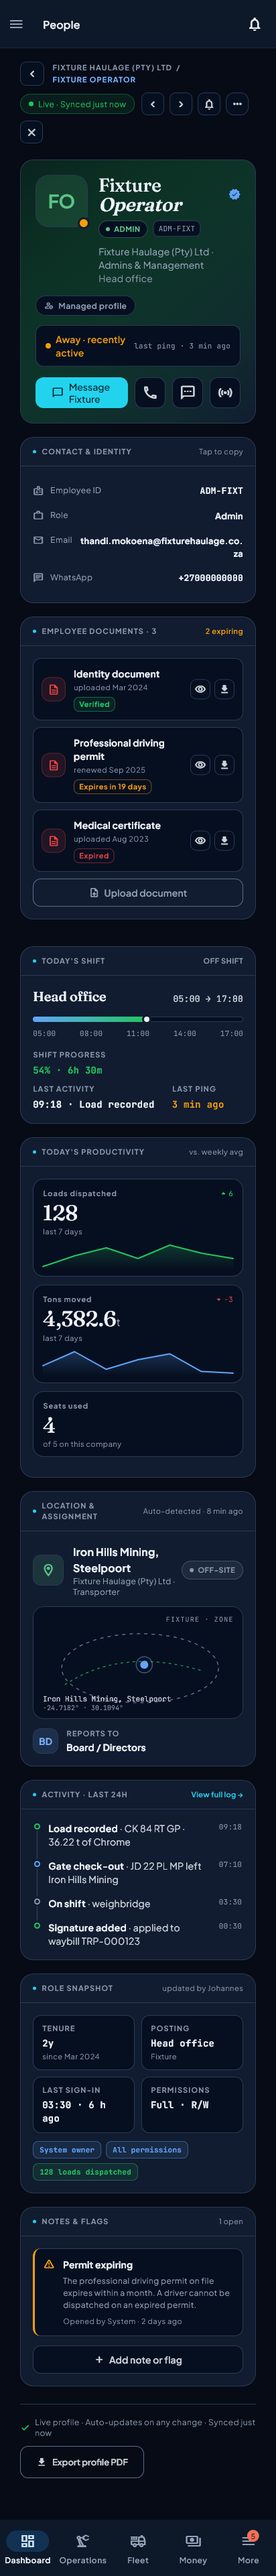
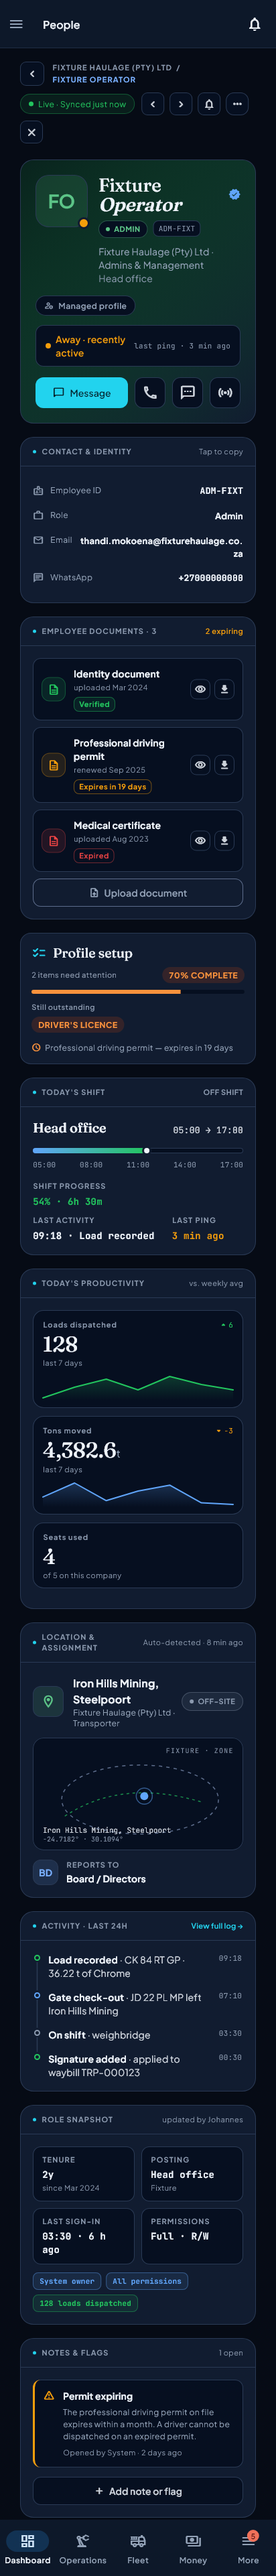
fix(employee): a fall is amber, a document's well carries its status, the footer button reaches the edge, the CTA never half-names, and the setup card is photographed
Phase 3 mine-portal pass, 2026-08-23 — two reviewers, five findings on
the employee profile:

- "▼ −3" under "Tons moved" drew red; the reference makes a negative delta
  amber and keeps red for a fault (design-reference §4) → `_amber`.
- Every document tile sat in a RED well, "Identity document · Verified"
  included: `statusColor` was computed and then ignored → the well takes
  the document's own tone (green / amber / red).
- The footer was a `Wrap` with no alignment and no claimed width, so
  "Export profile PDF" landed mid-row at x≈740–927 in a column ending at
  1570 (class 2) → a Row with the sentence `Expanded`; under 560px the
  button drops to its own line, right-aligned.
- The primary CTA read "Message  Thandi" (two spaces) and wrapped to two
  lines inside its 46px button at 1600px. An ellipsis was tried and read
  "Message F…" — a half-name is worse than none — so the name is dropped
  when the button is under 200px and the label is always one whole line.
- `ProfileSetupEmployerCard` had no provider fixture, errored, and returned
  `SizedBox.shrink()` on every profile golden ever taken — a failure that
  photographed as nothing (class 6). The fixture now supplies a setup, and
  WITH its items: the card itemises `setup.items`, and a summary over an
  empty list read "Nothing outstanding" at 70% with a licence missing — the
  first draft of this fixture lied the same way.

Pinned by employee_profile_tones_test.dart (six cases); sabotaged by
[…]

diff --git a/lib/features/employee/screens/employee_profile_screen.dart b/lib/features/employee/screens/employee_profile_screen.dart
@@ -555,40 +555,33 @@ class _EmployeeProfileScreenState extends ConsumerState<EmployeeProfileScreen> {
       decoration: BoxDecoration(
         border: Border(top: BorderSide(color: s.borderCard)),
       ),
-      // A Wrap, and the sentence claims the row.
+      // Sentence LEFT, button RIGHT, at every width.
       //
-      // It was a Row with a `Flexible` sentence and a `Spacer` — an
-      // `Expanded(flex: 1)` each, splitting the free space EQUALLY, so on a
-      // desktop half the row sat empty while the sentence ellipsised. On a
-      // phone even the full half is not enough beside a 190px "Export profile
-      // PDF" button, so the button drops to its own line.
-      child: Wrap(
-        spacing: 12,
-        runSpacing: 12,
-        crossAxisAlignment: WrapCrossAlignment.center,
-        children: [
-          SizedBox(
-            width: MediaQuery.sizeOf(context).width < 560
-                ? double.infinity
-                : 420,
-            child: Row(
-              children: [
-                const Icon(Icons.check_rounded, size: 15, color: _green),
-                const SizedBox(width: 7),
-                Expanded(
-                  child: Text(
-                    'Live profile · Auto-updates on any change · Synced ${_ago(syncedAt)}',
-                    maxLines: 2,
-                    overflow: TextOverflow.ellipsis,
-                    style: context.mlText.bodySmall.copyWith(
-                      color: s.textFaint,
-                    ),
+      // Until 2026-08-23 this was a `Wrap` with no alignment and no claimed
+      // width: on a desktop the 420px sentence and the 190px button sat
+      // side by side at the START of the row, the button stranded mid-row
+      // (x≈740–927 in a column ending at 1570) — the console pass's class 2.
+      // A Row with the sentence `Expanded` puts the button at the edge;
+      // under 560px the button drops to its own line, right-aligned.
+      child: LayoutBuilder(
+        builder: (context, c) {
+          final sentence = Row(
+            children: [
+              const Icon(Icons.check_rounded, size: 15, color: _green),
+              const SizedBox(width: 7),
+              Expanded(
+                child: Text(
+                  'Live profile · Auto-updates on any change · Synced ${_ago(syncedAt)}',
+                  maxLines: 2,
+                  overflow: TextOverflow.ellipsis,
+                  style: context.mlText.bodySmall.copyWith(
+                    color: s.textFaint,
                   ),
                 ),
-              ],
-            ),
-          ),
-          OutlinedButton.icon(
+              ),
+            ],
+          );
+          final button =           OutlinedButton.icon(
             onPressed: () => _exportPdf(b),
             icon: const Icon(Icons.download_rounded, size: 16),
             label: const Text('Export profile PDF'),
@@ -602,8 +595,25 @@ class _EmployeeProfileScreenState extends ConsumerState<EmployeeProfileScreen> {
               ),
               shape: RoundedRectangleBorder(borderRadius: MlShape.radiusMedium),
             ),
-          ),
-        ],
+          );
+          if (c.maxWidth < 560) {
+            return Column(
+              crossAxisAlignment: CrossAxisAlignment.stretch,
+              children: [
+                sentence,
+                const SizedBox(height: 12),
+                Align(alignment: Alignment.centerRight, child: button),
+              ],
+            );
+          }
+          return Row(
+            children: [
+              Expanded(child: sentence),
+              const SizedBox(width: 12),
+              button,
+            ],
+          );
+        },
       ),
     );
   }
@@ -918,13 +928,24 @@ class _EmployeeProfileScreenState extends ConsumerState<EmployeeProfileScreen> {
                   Expanded(
                     child: SizedBox(
                       height: 46,
-                      child: FilledButton.icon(
+                      child: LayoutBuilder(
+                        builder: (context, c) => FilledButton.icon(
                         onPressed: () => _message(b),
                         icon: const Icon(
                           Icons.chat_bubble_outline_rounded,
                           size: 18,
                         ),
-                        label: Text('Message  ${e.firstName}'),
+                        // One space (it had two), one line, and the NAME is
+                        // dropped when the button is narrow: beside three
+                        // 46px icon buttons at 1600px the label wrapped to
+                        // two lines inside its 46px button, and an ellipsis
+                        // read "Message F…" — a half-name is worse than no
+                        // name. Phase 3 mine pass, 2026-08-23.
+                        label: Text(
+                          c.maxWidth < 200 ? 'Message' : 'Message ${e.firstName}',
+                          maxLines: 1,
+                          overflow: TextOverflow.ellipsis,
+                        ),
                         style: FilledButton.styleFrom(
                           backgroundColor: _cta,
                           foregroundColor: MlTokens.inkOnAccent,
@@ -937,6 +958,7 @@ class _EmployeeProfileScreenState extends ConsumerState<EmployeeProfileScreen> {
                             borderRadius: MlShape.radiusMedium,
                           ),
                         ),
+                      ),
                       ),
                     ),
                   ),
@@ -2180,18 +2202,22 @@ class _DocTile extends StatelessWidget {
       ),
       child: Row(
         children: [
+          // The well carries the document's own status tone — `statusColor`
+          // was computed and then ignored, so a "Verified" identity document
+          // sat in a RED well beside its green badge. Phase 3 mine pass,
+          // 2026-08-23.
           Container(
             width: 36,
             height: 36,
             decoration: BoxDecoration(
-              color: _red.withValues(alpha: 0.12),
-              border: Border.all(color: _red.withValues(alpha: 0.3)),
+              color: statusColor.withValues(alpha: 0.12),
+              border: Border.all(color: statusColor.withValues(alpha: 0.3)),
               borderRadius: MlShape.radiusMedium,
             ),
-            child: const Icon(
+            child: Icon(
               Icons.description_outlined,
               size: 18,
-              color: _red,
+              color: statusColor,
             ),
           ),
           const SizedBox(width: 12),
@@ -2275,7 +2301,10 @@ class _MetricTile extends StatelessWidget {
     final s = semantic;
     final m = metric;
     final color = _toneColor(m.tone, s);
-    final deltaColor = m.deltaUp ? _green : _red;
+    // A fall is AMBER, not red: the reference makes negative deltas amber and
+    // keeps red for a fault (design-reference §4). "▼ −3 tons moved" is a
+    // downward trend, not an error. Phase 3 mine pass, 2026-08-23.
+    final deltaColor = m.deltaUp ? _green : _amber;
     return Container(
       padding: const EdgeInsets.fromLTRB(14, 13, 14, 10),
       decoration: BoxDecoration(

diff --git a/test/features/employee/employee_profile_tones_test.dart b/test/features/employee/employee_profile_tones_test.dart
@@ -1,0 +1,143 @@
+// The employee profile: a downward delta is amber, a document's well carries
+// its own status, the footer's button reaches the right edge, the CTA is one
+// line, and the employer's setup card is photographed at all.
+//
+// Phase 3 mine-portal pass, 2026-08-23 (two reviewers). "▼ −3" under "Tons
+// moved" drew red — the reference makes a negative delta amber and keeps red
+// for a fault. Every document tile sat in a RED well, "Identity document ·
+// Verified" included: `statusColor` was computed and then ignored. The footer
+// was a `Wrap` with no alignment, so "Export profile PDF" landed mid-row at
+// x≈740–927 in a column ending at 1570. The primary CTA read
+// "Message  Thandi" with two spaces and wrapped at 1600px. And
+// `ProfileSetupEmployerCard` returned `SizedBox.shrink()` because its
+// provider had no fixture — a failure that photographed as nothing.
+
+import 'package:flutter/material.dart';
+import 'package:flutter/rendering.dart';
+import 'package:flutter_riverpod/flutter_riverpod.dart';
+import 'package:flutter_test/flutter_test.dart';
+import 'package:shared_preferences/shared_preferences.dart';
+import 'package:supabase_flutter/supabase_flutter.dart';
+
+import 'package:flutter_application_1/core/design/tokens/ml_tokens.dart';
+import 'package:flutter_application_1/core/theme/app_theme.dart';
+import 'package:flutter_application_1/features/auth/models/user_type.dart';
+import 'package:flutter_application_1/features/employee/screens/employee_profile_screen.dart';
+import 'package:flutter_application_1/features/profile_setup/widgets/profile_setup_employer_card.dart';
+
+import '../../fixtures/employee_profile_fixtures.dart';
+import '../../fixtures/screen_fixtures.dart';
+import '../../test_helpers/real_fonts.dart';
+import '../../test_helpers/frozen_clock.dart';
+
+void main() {
+  setUpAll(() async {
+    freezeCaptureClock();
+    await loadRealFonts();
+    SharedPreferences.setMockInitialValues({});
+    await Supabase.initialize(
+      url: 'http://localhost:54321',
+      anonKey: 'employee-profile-tones-test',
+    );
+  });
+
+  Future<void> pump(WidgetTester tester, {double width = 1600}) async {
+    tester.view.physicalSize = Size(width, 2600);
+    tester.view.devicePixelRatio = 1.0;
+    addTearDown(tester.view.reset);
+    await tester.pumpWidget(ProviderScope(
+      overrides: [
+        ...companyScopeOverrides(
+            role: UserRole.admin, orgType: OrgType.transporter),
+        ...employeeProfileOverrides(),
+      ],
+      child: MaterialApp(
+        theme: AppTheme.darkTheme,
+        home: const Scaffold(
+          body: EmployeeProfileScreen(
+            employeeId: 'FIXTURE-employee',
+            canManage: true,
+            inPortal: true,
+          ),
+        ),
+      ),
+    ));
+    await tester.pump();
+    await tester.pump(const Duration(milliseconds: 800));
+  }
+
+  Color? inkOf(Finder f) =>
+      (f.evaluate().single.renderObject! as RenderParagraph).text.style?.color;
+
+  testWidgets('a downward delta is amber, not red', (tester) async {
+    await pump(tester);
+    final down = find.text('-3');
+    expect(down, findsOneWidget, reason: 'the fixture carries a -3 delta');
+    expect(inkOf(down), MlTokens.amber500);
+    expect(inkOf(down), isNot(MlTokens.red500));
+  });
+
+  testWidgets('a verified document does not sit in a red well',
+      (tester) async {
+    await pump(tester);
+    final verified = find.text('Verified');
+    expect(verified, findsWidgets);
+    final tile = find.ancestor(
+      of: verified.first,
+      matching: find.byWidgetPredicate(
+          (w) => w is Container && w.padding == const EdgeInsets.all(12)),
+    );
+    final well = find
+        .descendant(of: tile.first, matching: find.byType(Icon))
+        .evaluate()
+        .map((e) => e.widget as Icon)
+        .firstWhere((i) => i.icon == Icons.description_outlined);
+    expect(well.color, isNot(MlTokens.red500),
+        reason: 'a verified document icon is drawn in the fault colour');
+    // And it carries the document's own tone — green for Verified.
+    expect(well.color, MlTokens.green500);
+  });
+
+  testWidgets('the footer button reaches the right edge of its column',
+      (tester) async {
+    await pump(tester);
+    final button = tester.getRect(find.text('Export profile PDF'));
+    final sentence = tester.getRect(find.textContaining('Live profile'));
+    final column = tester.getRect(find.ancestor(
+      of: find.text('Export profile PDF'),
+      matching: find.byType(LayoutBuilder),
+    ).first);
+    expect(button.right, greaterThan(column.right - 40),
+        reason: 'button ends at ${button.right} in a column ending at '
+            '${column.right}');
+    expect(sentence.left, lessThan(button.left));
+  });
+
+  testWidgets('the CTA is one line, whole, with one space', (tester) async {
+    await pump(tester);
+    final cta = find.textContaining(RegExp(r'^Message'));
+    expect(cta, findsOneWidget);
+    final p = cta.evaluate().single.renderObject! as RenderParagraph;
+    expect(p.size.height, closeTo(p.getMaxIntrinsicHeight(double.infinity), 0.5),
+        reason: 'the CTA label wrapped');
+    // Never a half-name: either the whole name or none.
+    expect(p.didExceedMaxLines, isFalse, reason: 'the CTA ellipsised');
+    expect(find.textContaining('Message  '), findsNothing);
+  });
+
+  testWidgets('the setup card itemises what the summary counts',
+      (tester) async {
+    await pump(tester);
+    expect(find.text('Nothing outstanding'), findsNothing,
+        reason: '"Nothing outstanding" over a 70% summary with a missing item');
+    expect(find.textContaining(RegExp(r'need(s)? attention')), findsOneWidget);
+  });
+
+  testWidgets('the employer setup card is rendered', (tester) async {
+    await pump(tester);
+    final card = find.byType(ProfileSetupEmployerCard);
+    expect(card, findsOneWidget);
+    expect(tester.getSize(card).height, greaterThan(40),
+        reason: 'the setup card collapsed to nothing — its provider errored');
+  });
+}

diff --git a/test/fixtures/employee_profile_fixtures.dart b/test/fixtures/employee_profile_fixtures.dart
@@ -16,6 +16,8 @@ import 'package:flutter_riverpod/flutter_riverpod.dart';
 import 'package:flutter_application_1/features/auth/models/user_type.dart';
 import 'package:flutter_application_1/features/employee/providers/employee_profile_provider.dart';
 import 'package:flutter_application_1/features/employee/services/employee_profile_service.dart';
+import 'package:flutter_application_1/features/profile_setup/models/profile_setup.dart';
+import 'package:flutter_application_1/features/profile_setup/providers/profile_setup_provider.dart';
 
 import 'screen_fixtures.dart';
 
@@ -185,4 +187,56 @@ List<Override> employeeProfileOverrides() => [
       employeeProfileRealtimeProvider.overrideWith((ref, employeeId) {}),
       employeeProfileSyncedAtProvider
           .overrideWith((ref, employeeId) => _ago(const Duration(seconds: 4))),
+      // The employer's setup card. Without this the provider errored and
+      // `ProfileSetupEmployerCard` returned `SizedBox.shrink()` — a failure
+      // that photographed as nothing, on every profile golden ever taken
+      // (Phase 3 mine pass, 2026-08-23). One item missing and one expiring,
+      // so the card has something to say.
+      // The ITEMS too, consistent with the summary: the card itemises
+      // `setup.items` ("Nothing outstanding" is what it says over an empty
+      // list), and a fixture with a summary and no items is a fixture that
+      // lies.
+      employeeProfileSetupProvider('FIXTURE-employee').overrideWith(
+        (ref) async => const ProfileSetup(
+          audience: 'employee',
+          items: [
+            ProfileSetupItem(
+              itemKey: 'drivers_licence',
+              label: "Driver's licence",
+              category: SetupCategory.licences,
+              kind: SetupItemKind.document,
+              isRequired: true,
+              requiresExpiry: true,
+              requiresFile: true,
+              sortOrder: 1,
+              status: SetupItemStatus.missing,
+              filePresent: false,
+            ),
+            ProfileSetupItem(
+              itemKey: 'prdp',
+              label: 'Professional driving permit',
+              category: SetupCategory.licences,
+              kind: SetupItemKind.document,
+              isRequired: true,
+              requiresExpiry: true,
+              requiresFile: true,
+              sortOrder: 2,
+              status: SetupItemStatus.expiring,
+              filePresent: true,
+              daysToExpiry: 19,
+            ),
+          ],
+          summary: ProfileSetupSummary(
+            totalItems: 10,
+            completeItems: 7,
+            requiredTotal: 5,
+            requiredComplete: 4,
+            completionPercent: 70,
+            missingRequired: ["Driver's licence"],
+            missingCount: 1,
+            expiringCount: 1,
+            expiredCount: 0,
+          ),
+        ),
+      ),
     ];
